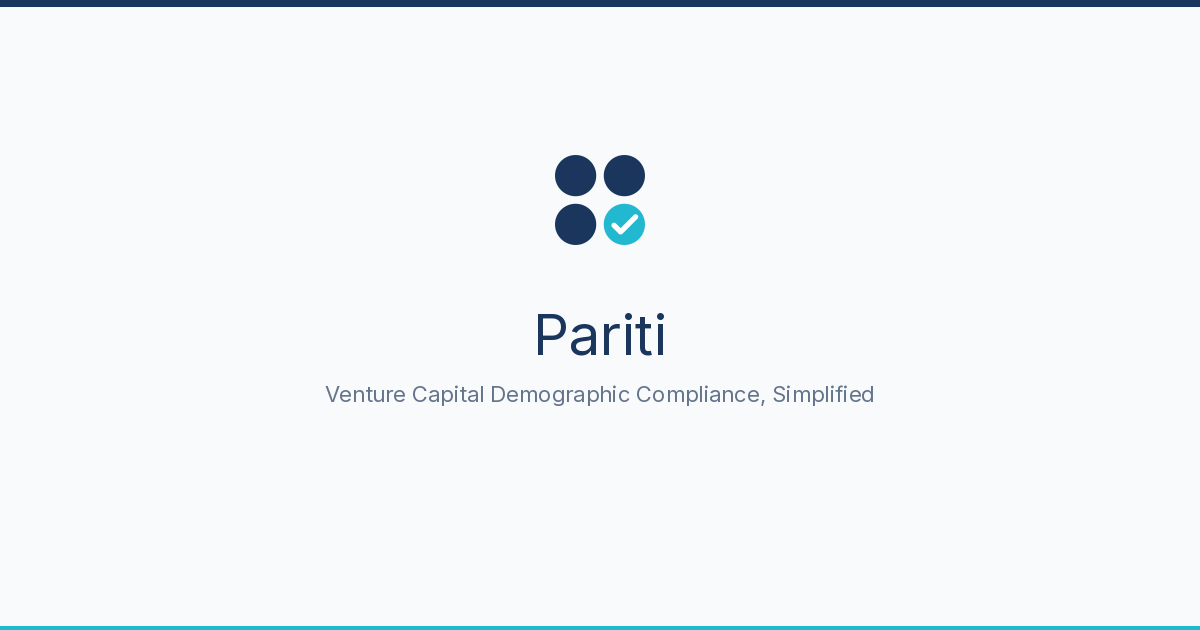
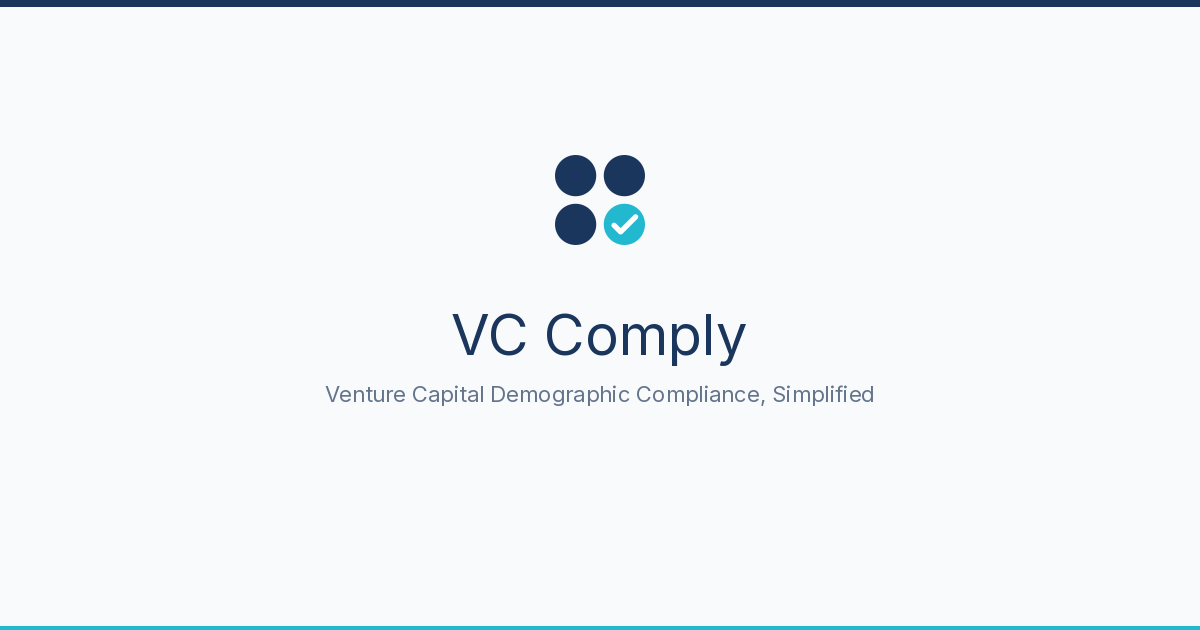
Rename brand assets from Pariti to VC Comply
Update logos, OG image, webmanifest, BRAND.md, and generator
script to use the actual product name "VC Comply".

https://claude.ai/code/session_01EWkNjWFqabGcooHgwVCksd

Changed region(s): [[0.37, 0.4825, 0.6167, 0.573]]

diff --git a/brand/generate_assets.py b/brand/generate_assets.py
@@ -1,5 +1,5 @@
 #!/usr/bin/env python3
-"""Generate all brand assets for Pariti from SVG sources."""
+"""Generate all brand assets for VC Comply from SVG sources."""
 
 import os
 import struct
@@ -122,8 +122,8 @@ def generate_webmanifest():
     print("  Creating site.webmanifest...")
 
     manifest = """{
-  "name": "Pariti",
-  "short_name": "Pariti",
+  "name": "VC Comply",
+  "short_name": "VC Comply",
   "icons": [
     {
       "src": "android-chrome-192x192.png",
@@ -215,7 +215,7 @@ def generate_logo_horizontal(variant="color"):
 
     # Try to generate wordmark paths
     font_path = get_font_path()
-    path_result = create_wordmark_svg("Pariti", font_path, font_size, text_fill)
+    path_result = create_wordmark_svg("VC Comply", font_path, font_size, text_fill)
 
     icon_svg = f'''<g transform="translate({padding}, {padding})">
     <svg width="{icon_size}" height="{icon_size}" viewBox="0 0 64 64" fill="none">
@@ -276,7 +276,7 @@ def generate_logo_stacked(variant="color"):
 
     # Try font path extraction for stacked version
     font_path = get_font_path()
-    path_result = create_wordmark_svg("Pariti", font_path, font_size, text_fill)
+    path_result = create_wordmark_svg("VC Comply", font_path, font_size, text_fill)
 
     text_y = padding + icon_size + gap
 
@@ -337,7 +337,7 @@ def generate_og_image():
         font_tagline = ImageFont.truetype(font_path, 22)
 
     # Draw product name
-    title = "Pariti"
+    title = "VC Comply"
     title_bbox = draw.textbbox((0, 0), title, font=font_title)
     title_w = title_bbox[2] - title_bbox[0]
     title_x = (width - title_w) // 2
@@ -361,7 +361,7 @@ def generate_og_image():
 
 def main():
     print("=" * 50)
-    print("Pariti Brand Asset Generator")
+    print("VC Comply Brand Asset Generator")
     print("=" * 50)
 
     # Ensure directories exist

diff --git a/brand/BRAND.md b/brand/BRAND.md
@@ -1,10 +1,8 @@
-# Pariti Brand Guidelines
+# VC Comply Brand Guidelines
 
-**Pariti** — Venture Capital Demographic Compliance, Simplified
+**VC Comply** — Venture Capital Demographic Compliance, Simplified
 
-Pariti helps venture capital firms comply with California's Fair Investment Practices by Venture Capital Companies Law (Corp. Code, § 27500 et seq.). It distributes demographic data surveys to startup founders, collects responses, and generates annual reports for the DFPI.
-
-The name derives from _parity_ — fairness and equality — the core principle of the law.
+VC Comply helps venture capital firms comply with California's Fair Investment Practices by Venture Capital Companies Law (Corp. Code, § 27500 et seq.). It distributes demographic data surveys to startup founders, collects responses, and generates annual reports for the DFPI.
 
 ---
 
@@ -32,7 +30,7 @@ The name derives from _parity_ — fairness and equality — the core principle 
 
 ## Icon
 
-The Pariti icon is a 2x2 grid of circles: three in navy and one in teal with a white checkmark. It represents demographic data points (founders) converging into a single compliance verification.
+The VC Comply icon is a 2x2 grid of circles: three in navy and one in teal with a white checkmark. It represents demographic data points (founders) converging into a single compliance verification.
 
 ### Design Principles
 
@@ -53,8 +51,8 @@ The Pariti icon is a 2x2 grid of circles: three in navy and one in teal with a w
 
 Two lockups are provided, each in light-background and dark-background variants:
 
-- **Horizontal:** Icon + "Pariti" side by side. Use in headers, navigation bars, and horizontal layouts.
-- **Stacked:** Icon above "Pariti." Use in splash screens, centered layouts, and square contexts.
+- **Horizontal:** Icon + "VC Comply" side by side. Use in headers, navigation bars, and horizontal layouts.
+- **Stacked:** Icon above "VC Comply." Use in splash screens, centered layouts, and square contexts.
 
 The wordmark uses [Inter](https://rsms.me/inter/) (SemiBold, 600 weight), embedded as SVG paths for zero font dependencies.
 
@@ -155,6 +153,6 @@ Open Graph / social meta tags:
 <meta property="og:image" content="https://yourdomain.com/og-image.png" />
 <meta property="og:image:width" content="1200" />
 <meta property="og:image:height" content="630" />
-<meta property="og:title" content="Pariti" />
+<meta property="og:title" content="VC Comply" />
 <meta property="og:description" content="Venture Capital Demographic Compliance, Simplified" />
 ```
